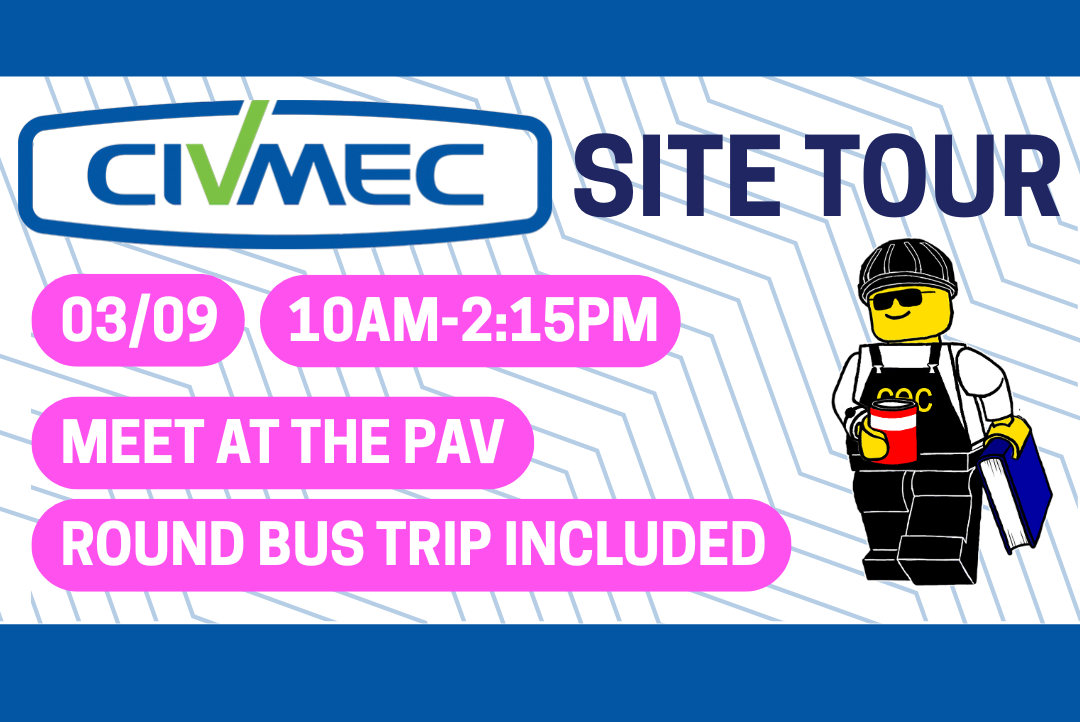
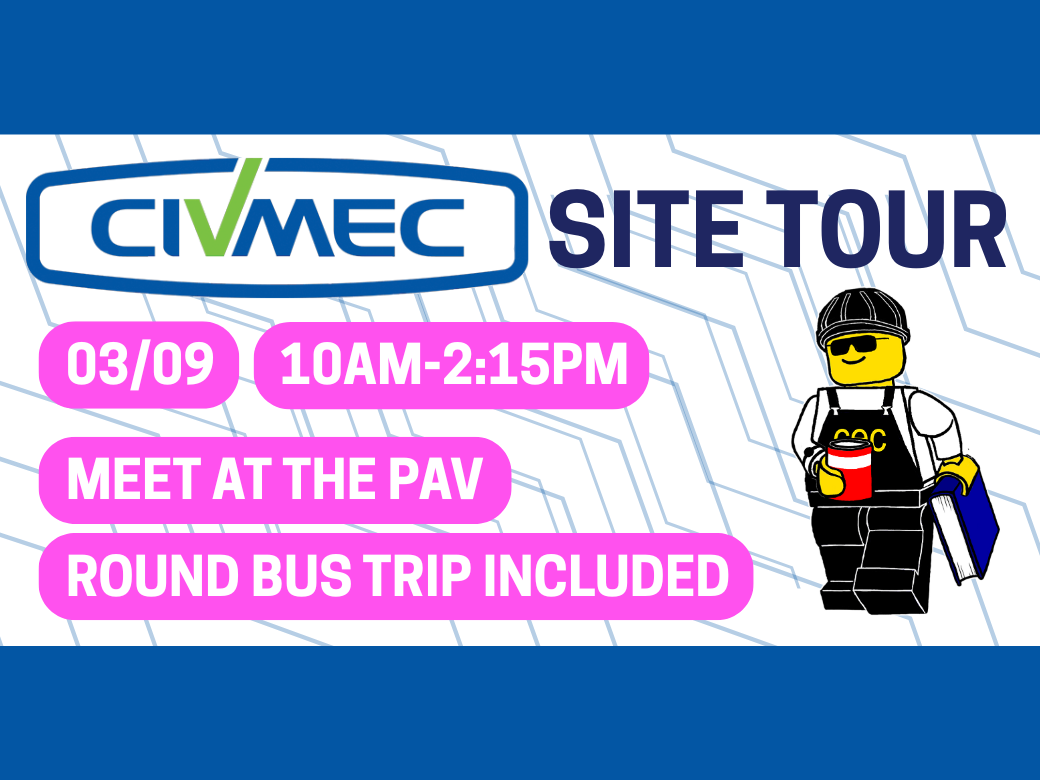
Updated Events page and data to have standard image size and card spacing.

diff --git a/docs/scripts/events.js b/docs/scripts/events.js
@@ -82,13 +82,13 @@ function updatePastEvents() {
         events.slice(firstIndex,lastIndex).forEach(event => {
             html += `
             <div class="eventCard">
-                <img class="eventImg" src="${event.image}" alt="Event Image">
+                <img class="eventImg" src="${event.image}" alt="${event.title}">
                 <div class="eventInfo">
                     <div class="eventDetails">
                         <p class="txParagraph1White">${event.title}</p>
                         <p class="txParagraph2White" style="text-align: right;">${event.date}<br>${event.time}</p>
                     </div>
-                    <p class="txParagraph2White" style="max-width: none;">${event.description}</p>
+                    <p class="txParagraph3White" style="max-width: none;">${event.description}</p>
                     <a href="${event.link}" class="yellowButton" style="padding: 6px 8px;">Find Out More!</a>
                 </div>
             </div>

diff --git a/docs/css/styles.css b/docs/css/styles.css
@@ -693,10 +693,10 @@ input,
     display: flex;
     background-color: var(--Brand-blue-primary);
     border-radius: 12px;
-    width: 100%;
-    height: auto;
+    max-height: 300px;
     align-items: center;
     padding: 16px;
+    overflow: hidden;
 }
 
 .eventImg{
@@ -705,14 +705,16 @@ input,
     border-color: var(--Brand-blue-tertiary);
     border-width: 4px;
     border-radius: 10px;
-    max-width: 400px;
-    height: auto;
+    object-fit: cover;
+    width: 100%;
+    height: 100%;
 }
 
 .eventDetails{
     display: flex;
     flex-direction: row;
     justify-content: space-between;
+    align-items: center;
 }
 
 .eventInfo{

diff --git a/docs/events.html b/docs/events.html
@@ -57,7 +57,7 @@
                         events.forEach(event => {
                             container.innerHTML += `
                             <div class="eventCard">
-                                <img class="eventImg" src="${event.image}" alt="Event Image">
+                                <img class="eventImg" src="${event.image}" alt="${event.title}">
                                 <div class="eventInfo">
                                     <div class="eventDetails">
                                         <p class="txParagraph1White">${event.title}</p>
